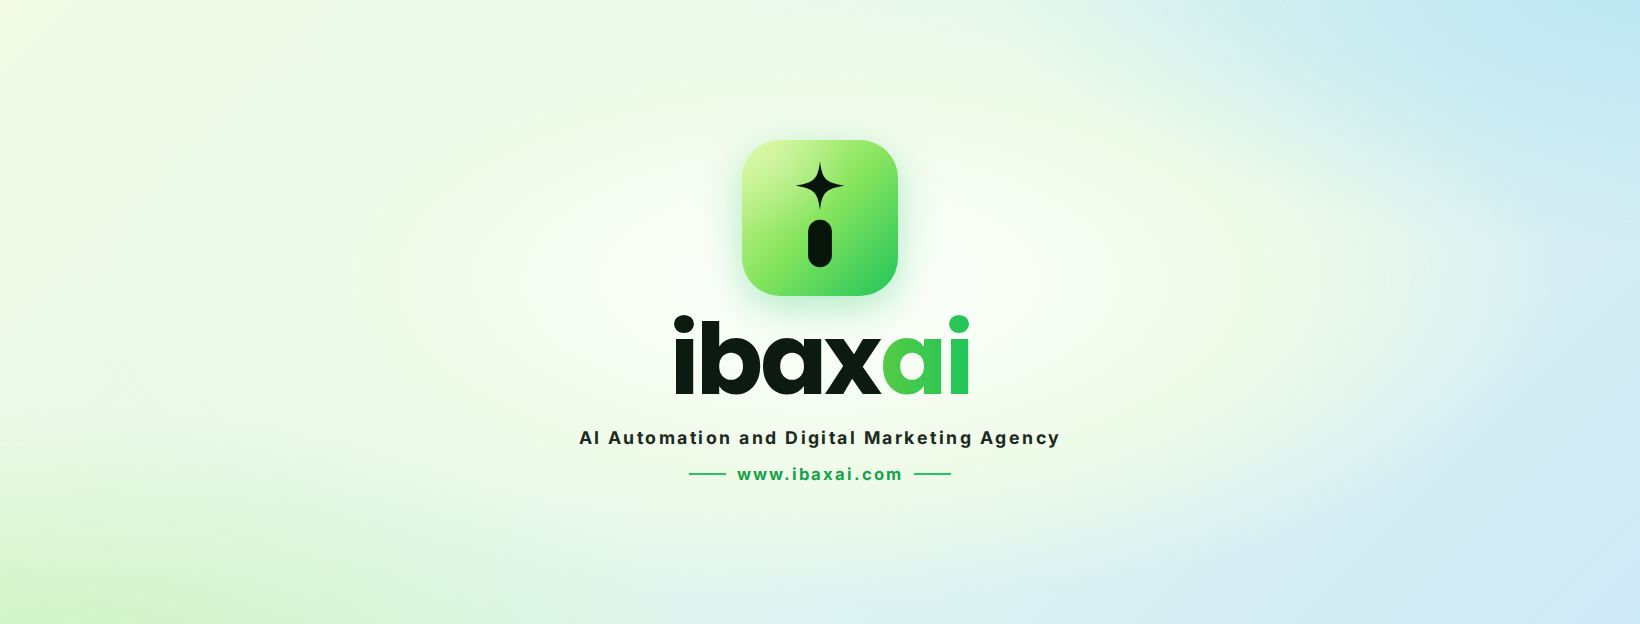
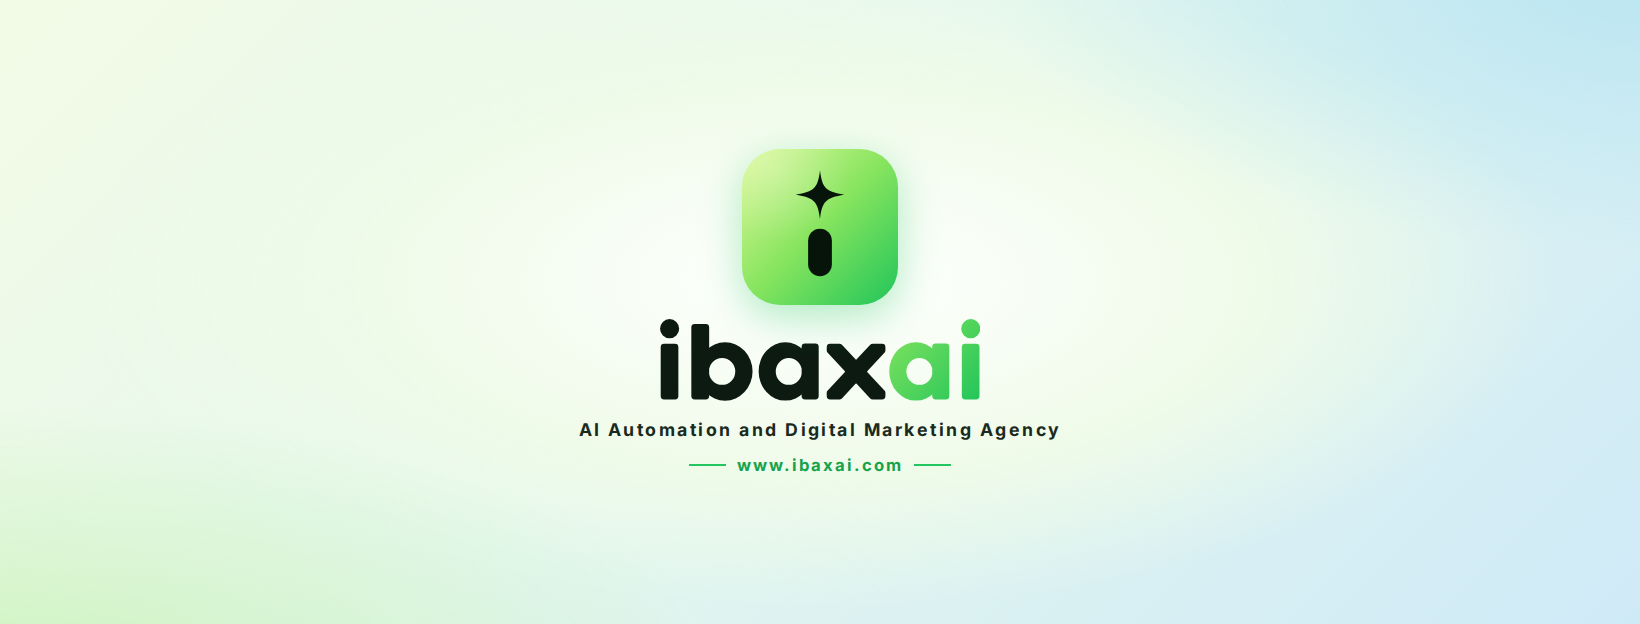
ibaxai wordmark drawn exactly like the brand artwork, centred under the symbol (#199)
* New ibaxai icon and wordmark, tagline "AI Automation and Digital Marketing Agency"

- Icon: softer lime-to-green tile, a slightly larger sparkle and a
  shorter, wider "i" stem (owner's new design). Applied to LogoMark,
  the splash animation, the IBAX knob, and every PNG: favicon, app
  icons 192/512, maskable 512, Apple touch icons.
- Wordmark: one bold font, "ibax" white/dark and "ai" green (the
  separate thin X is gone), with the small TM.
- Tagline everywhere: "AI Automation and Digital Marketing Agency"
  (site and app titles, logo line, splash, Play listing text).
- docs/brand: 1024 icon and Meta covers (1600x900, 1640x624).

Claude-Session: https://claude.ai/code/session_01UsfVGsBkqYKhJkQN8Hsd9S

* Draw the ibaxai wordmark exactly like the brand artwork, centred under the symbol

The letters were Poppins text; they now come from the owner's artwork:
round dots, flat stems with soft corners, round bowls and a straight-cut x,
with the same letter gaps. One SVG path per letter so the splash still
brings them in one by one.

New LogoLockup puts the symbol centred above the word in the artwork's
proportions (tile 48.7% of the word's width, 4.5% gap). Used on the app
welcome page, the splash, the website intro, the demo films and the stacked
BrandLogo. The ™ sits beside the word so the letters stay centred.
Meta and Facebook covers regenerated with the same letters.

Claude-Session: https://claude.ai/code/session_01UsfVGsBkqYKhJkQN8Hsd9S

---------

diff --git a/src/components/navigation/Logo.tsx b/src/components/navigation/Logo.tsx
@@ -1,7 +1,8 @@
 import Link from "next/link";
-import { useId } from "react";
+import { useId, type CSSProperties } from "react";
 import { cn } from "@/lib/cn";
 import { siteConfig } from "@/config/site";
+import { WORDMARK_GLYPHS, WORDMARK_VIEWBOX } from "./wordmarkGlyphs";
 
 /** The IBAX symbol: a sparkle over a short, wide "i", in deep ink on a soft lime-to-green tile. */
 export function LogoMark({ className }: { className?: string }) {
@@ -31,19 +32,43 @@ export function LogoMark({ className }: { className?: string }) {
   );
 }
 
-/** The "ibaxai" wordmark in one bold font: white "ibax", green "ai", and a small ™. */
-export function Wordmark({ className }: { className?: string }) {
+type LetterProps = { className?: string; style?: CSSProperties };
+
+/** The "ibaxai" wordmark, drawn exactly like the brand artwork: "ibax" in ink (white on dark), "ai" in green, and a small ™. */
+export function Wordmark({ className, tm = true, letterProps }: { className?: string; tm?: boolean; letterProps?: (index: number) => LetterProps }) {
+  const id = `ibaxw-${useId().replace(/:/g, "")}`;
   return (
-    <span
-      className={cn("inline-block font-[family-name:var(--font-poppins)] font-bold tracking-[-0.03em] whitespace-nowrap leading-none", className)}
-      aria-label={siteConfig.name}
-    >
-      <span aria-hidden className="text-white">ibax</span>
-      <span aria-hidden className="bg-gradient-to-r from-[#8be860] to-[#55cb45] bg-clip-text text-transparent">ai</span>
-      {/* ™: an unregistered trade mark (® only once it is registered). */}
-      <sup aria-hidden className="ml-[0.08em] align-super text-[0.3em] font-semibold tracking-normal text-white opacity-60">
-        TM
-      </sup>
+    <span className={cn("relative inline-block leading-none", className)} role="img" aria-label={siteConfig.name}>
+      <svg viewBox={WORDMARK_VIEWBOX} className="block h-[0.8em] w-auto overflow-visible text-white" aria-hidden>
+        <defs>
+          <linearGradient id={`${id}-ai`} x1="334" y1="0" x2="468" y2="120" gradientUnits="userSpaceOnUse">
+            <stop offset="0" stopColor="#86e45e" />
+            <stop offset="1" stopColor="#22c55a" />
+          </linearGradient>
+        </defs>
+        {WORDMARK_GLYPHS.map((g, i) => (
+          <path key={i} d={g.d} fill={g.ai ? `url(#${id}-ai)` : "currentColor"} {...letterProps?.(i)} />
+        ))}
+      </svg>
+      {/* ™: an unregistered trade mark (® only once it is registered). Placed beside the letters so they stay centred. */}
+      {tm && (
+        <sup aria-hidden className="absolute top-[-0.05em] left-full ml-[0.08em] text-[0.22em] leading-none font-semibold tracking-normal text-white opacity-60">
+          TM
+        </sup>
+      )}
+    </span>
+  );
+}
+
+/**
+ * Symbol centred above the wordmark, in the brand artwork's proportions: the tile is 48.7% of
+ * the word's width, with a gap of 4.5%. Size it with a width class (e.g. "w-60").
+ */
+export function LogoLockup({ className, markClassName }: { className?: string; markClassName?: string }) {
+  return (
+    <span className={cn("flex flex-col items-center", className)}>
+      <LogoMark className={cn("aspect-square size-auto w-[48.7%]", markClassName)} />
+      <Wordmark className="mt-[4.5%] w-full [&>svg]:h-auto [&>svg]:w-full" />
     </span>
   );
 }

diff --git a/src/components/navigation/wordmarkGlyphs.ts b/src/components/navigation/wordmarkGlyphs.ts
@@ -1,0 +1,16 @@
+/**
+ * The "ibaxai" letters, drawn to match the brand artwork exactly (shapes, sizes and the gaps
+ * between letters): round dots, flat stems with soft corners, round bowls and a straight-cut x.
+ * One path per letter so the app's opening animation can bring them in one by one.
+ * "ibax" is the ink colour, "ai" the green. Units: a 468 × 120 box.
+ */
+export const WORDMARK_VIEWBOX = "0 0 468 120";
+
+export const WORDMARK_GLYPHS: readonly { letter: string; ai: boolean; d: string }[] = [
+  { letter: "i", ai: false, d: "M0.05 14.1a13.95 13.95 0 1 1 27.9 0a13.95 13.95 0 1 1 -27.9 0ZM1 41.1Q1 36.1 6 36.1L21.8 36.1Q26.8 36.1 26.8 41.1L26.8 112.5Q26.8 117.5 21.8 117.5L6 117.5Q1 117.5 1 112.5Z" },
+  { letter: "b", ai: false, d: "M55 76.6a40.1 42.72 0 1 1 80.2 0a40.1 42.72 0 1 1 -80.2 0ZM71.45 76.6a19.25 19.6 0 1 0 38.5 0a19.25 19.6 0 1 0 -38.5 0ZM45.75 12.35Q45.75 7.35 50.75 7.35L66.8 7.35Q71.8 7.35 71.8 12.35L71.8 112.6Q71.8 117.6 66.8 117.6L50.75 117.6Q45.75 117.6 45.75 112.6Z" },
+  { letter: "a", ai: false, d: "M144.1 76.6a39 42.65 0 1 1 78 0a39 42.65 0 1 1 -78 0ZM169.1 76.65a19.1 19.6 0 1 0 38.2 0a19.1 19.6 0 1 0 -38.2 0ZM206.9 40.85Q206.9 35.85 211.9 35.85L226.85 35.85Q231.85 35.85 231.85 40.85L231.85 112.6Q231.85 117.6 226.85 117.6L211.9 117.6Q206.9 117.6 206.9 112.6Z" },
+  { letter: "x", ai: false, d: "M243.6 41.1Q243.6 36.1 248.6 36.1L261.78 36.1Q264.38 36.1 266.15 38L285.66 58.98Q286.48 59.86 287.29 58.98L306.8 38Q308.57 36.1 311.17 36.1L324.35 36.1Q329.35 36.1 329.35 41.1L329.35 46.14Q329.35 47.74 328.26 48.91L303.09 75.97Q302.28 76.85 303.09 77.73L328.26 104.79Q329.35 105.96 329.35 107.56L329.35 112.6Q329.35 117.6 324.35 117.6L311.17 117.6Q308.57 117.6 306.8 115.7L287.29 94.72Q286.48 93.84 285.66 94.72L266.15 115.7Q264.38 117.6 261.78 117.6L248.6 117.6Q243.6 117.6 243.6 112.6L243.6 107.56Q243.6 105.96 244.69 104.79L269.86 77.73Q270.68 76.85 269.86 75.97L244.69 48.91Q243.6 47.74 243.6 46.14Z" },
+  { letter: "a", ai: true, d: "M334.95 76.6a39 42.65 0 1 1 78 0a39 42.65 0 1 1 -78 0ZM359.95 76.65a19.1 19.6 0 1 0 38.2 0a19.1 19.6 0 1 0 -38.2 0ZM397.75 40.85Q397.75 35.85 402.75 35.85L417.7 35.85Q422.7 35.85 422.7 40.85L422.7 112.6Q422.7 117.6 417.7 117.6L402.75 117.6Q397.75 117.6 397.75 112.6Z" },
+  { letter: "i", ai: true, d: "M440.05 14.1a13.95 13.95 0 1 1 27.9 0a13.95 13.95 0 1 1 -27.9 0ZM441 41.1Q441 36.1 446 36.1L461.8 36.1Q466.8 36.1 466.8 41.1L466.8 112.5Q466.8 117.5 461.8 117.5L446 117.5Q441 117.5 441 112.5Z" },
+];

diff --git a/src/app/app/page.tsx b/src/app/app/page.tsx
@@ -7,9 +7,8 @@ import { ArrowRight, CirclePlay, Fingerprint, KeyRound, LogIn, ScanFace, UserPlu
 import { product } from "@/config/product";
 import { logOut, useSession } from "@/lib/app/store";
 import { LOCK_EVENT, bioName, forgetUnlocked, getLock, unlockWithBiometric } from "@/lib/app/appLock";
-import { BrandMark } from "@/components/app/ui";
 import { ThemeToggle } from "@/components/app/ThemeToggle";
-import { Wordmark } from "@/components/navigation/Logo";
+import { LogoLockup } from "@/components/navigation/Logo";
 import { cn } from "@/lib/cn";
 
 /** Soft green light arcs in two corners, like the edge of a glowing planet. */
@@ -87,12 +86,10 @@ export default function WelcomePage() {
 
       <main className="relative mx-auto flex w-full max-w-md flex-1 flex-col px-7 pt-[max(env(safe-area-inset-top),2rem)] pb-[max(env(safe-area-inset-bottom),1.75rem)]">
         <section className="flex flex-1 flex-col items-center justify-center text-center">
-          <span className="relative">
-            <span aria-hidden className="absolute inset-[-30%] rounded-full bg-flow/25 blur-3xl" />
-            <BrandMark className="relative size-28 drop-shadow-[0_0_28px_rgb(37_211_102/0.55)] sm:size-32" />
-          </span>
-          <h1 className="mt-7">
-            <Wordmark className="text-[3.3rem] leading-none sm:text-[3.8rem]" />
+          {/* Symbol centred over "ibaxai", as in the brand artwork. */}
+          <h1 className="relative w-[14.5rem] sm:w-[16.5rem]">
+            <span aria-hidden className="absolute top-[-12%] left-1/2 aspect-square w-[75%] -translate-x-1/2 rounded-full bg-flow/25 blur-3xl" />
+            <LogoLockup className="relative w-full" markClassName="drop-shadow-[0_0_28px_rgb(37_211_102/0.55)]" />
           </h1>
           <p className="mt-4 text-[0.6rem] font-medium tracking-[0.2em] whitespace-nowrap text-fg-muted uppercase min-[400px]:tracking-[0.26em] sm:text-[0.7rem]">{product.logoTagline}</p>
           <span aria-hidden className="mt-7 h-px w-36 bg-[linear-gradient(90deg,transparent,#25d366,transparent)] shadow-[0_0_12px_#25d366]" />

diff --git a/src/components/app/AppSplash.tsx b/src/components/app/AppSplash.tsx
@@ -1,6 +1,7 @@
 "use client";
 
 import { product } from "@/config/product";
+import { Wordmark } from "@/components/navigation/Logo";
 
 /**
  * Opening screen of the app, IBAX's signature moment — "the spark of automation":
@@ -10,7 +11,6 @@ import { product } from "@/config/product";
  * "ibaxai" letter by letter, and the tagline. Pure CSS (and a tiny script for the sound),
  * so it plays before the app's JavaScript loads; shown once per visit. The mark is drawn exactly like LogoMark.
  */
-const letters = ["i", "b", "a", "x", "a", "i"];
 
 /**
  * The opening sound, in time with the animation. Only when the phone lets a page play sound
@@ -96,20 +96,12 @@ export function AppSplash() {
             </svg>
           </span>
         </div>
-        <div className="ibax-splash-word font-[family-name:var(--font-poppins)]" aria-label={product.name}>
-          {letters.map((l, i) =>
-            l === "x" ? (
-              <svg key={i} viewBox="0 0 100 100" className="ibax-splash-letter mx-[0.03em] h-[0.6em] w-[0.6em]" style={{ animationDelay: `${2.15 + i * 0.07}s` }}>
-                <line x1="12" y1="12" x2="88" y2="88" stroke="#fff" strokeWidth="19" strokeLinecap="round" />
-                <line x1="12" y1="88" x2="88" y2="12" stroke="#fff" strokeWidth="19" strokeLinecap="round" />
-              </svg>
-            ) : (
-              <span key={i} className={`ibax-splash-letter ${i > 3 ? "ibax-splash-ai" : ""}`} style={{ animationDelay: `${2.15 + i * 0.07}s` }}>
-                {l}
-              </span>
-            ),
-          )}
-        </div>
+        {/* "ibaxai" letter by letter, centred under the mark as in the brand artwork. */}
+        <Wordmark
+          className="ibax-splash-word [&>svg]:h-auto [&>svg]:w-full"
+          tm={false}
+          letterProps={(i) => ({ className: "ibax-splash-letter", style: { animationDelay: `${2.15 + i * 0.07}s` } })}
+        />
         <p className="ibax-splash-tag">{product.logoTagline}</p>
       </div>
     </>

diff --git a/src/components/app/ui.tsx b/src/components/app/ui.tsx
@@ -30,7 +30,7 @@ import {
   EyeOff,
 } from "lucide-react";
 import { cn } from "@/lib/cn";
-import { LogoMark, Wordmark } from "@/components/navigation/Logo";
+import { LogoLockup, LogoMark, Wordmark } from "@/components/navigation/Logo";
 import { product } from "@/config/product";
 
 /* ── Brand: the ibaxai symbol and wordmark, the same as the website ── */
@@ -53,12 +53,16 @@ export function BrandLogo({
   const mark = { sm: "size-7", md: "size-8", lg: "size-20" }[size];
   const word = { sm: "text-[1.1rem]", md: "text-[1.25rem]", lg: "text-[2.6rem]" }[size];
   return (
-    <span className={cn(stacked ? "flex w-fit flex-col items-center gap-4 text-center" : "inline-flex items-center gap-2.5", className)}>
-      <BrandMark className={mark} />
+    <span className={cn(stacked ? "flex w-fit flex-col items-center text-center" : "inline-flex items-center gap-2.5", className)}>
+      {stacked ? (
+        <LogoLockup className={{ sm: "w-28", md: "w-36", lg: "w-56" }[size]} markClassName="drop-shadow-[0_0_16px_rgb(33_192_99/0.5)]" />
+      ) : (
+        <BrandMark className={mark} />
+      )}
       <span className={cn("flex flex-col", stacked ? "items-center" : "items-start")}>
-        <Wordmark className={word} />
+        {!stacked && <Wordmark className={word} />}
         {tagline && (
-          <span className={cn("mt-1.5 font-mono whitespace-nowrap uppercase text-fg-subtle", !stacked && "max-sm:hidden", size === "lg" ? "text-[0.62rem] tracking-[0.22em]" : "text-[0.5rem] tracking-[0.22em]")}>
+          <span className={cn(stacked ? "mt-3" : "mt-1.5", "font-mono whitespace-nowrap uppercase text-fg-subtle", !stacked && "max-sm:hidden", size === "lg" ? "text-[0.62rem] tracking-[0.22em]" : "text-[0.5rem] tracking-[0.22em]")}>
             {product.logoTagline}
           </span>
         )}

diff --git a/src/app/globals.css b/src/app/globals.css
@@ -272,14 +272,6 @@ body {
   filter: drop-shadow(0 0 24px rgb(37 211 102 / 0.55));
   animation: intro-mark 0.9s var(--ease-out-expo) both;
 }
-.intro-name {
-  position: relative;
-  font-weight: 600;
-  letter-spacing: 0.32em;
-  font-size: 0.8rem; /* the brand is written in lowercase: ibaxai */
-  color: var(--color-fg-muted);
-  animation: intro-fade 0.8s ease-out 0.2s both;
-}
 .intro-line {
   position: relative;
   width: 9rem;
@@ -719,24 +711,18 @@ body {
 }
 .ibax-splash-word {
   position: relative;
-  display: inline-flex;
-  align-items: baseline;
-  margin-top: 2.3rem;
+  /* The mark is 48.7% of the word's width, with a 4.5% gap, as in the brand artwork. */
+  width: calc(7.5rem / 0.487);
+  margin-top: calc(7.5rem / 0.487 * 0.045);
   font-size: 3.4rem;
-  font-weight: 700;
-  letter-spacing: -0.03em;
-  line-height: 1;
-  color: #fff;
+}
+.ibax-splash-word path {
+  transform-box: fill-box;
+  transform-origin: 50% 50%;
 }
 .ibax-splash-letter {
   display: inline-block;
   animation: ibax-splash-letter 0.6s var(--ease-out-expo) both;
-}
-.ibax-splash-ai {
-  background: linear-gradient(90deg, #8be860, #55cb45);
-  -webkit-background-clip: text;
-  background-clip: text;
-  color: transparent;
 }
 .ibax-splash-tag {
   position: relative;
@@ -749,7 +735,6 @@ body {
   white-space: nowrap;
   animation: ibax-splash-tag 1s var(--ease-out-expo) 2.6s both;
 }
-@media (min-width: 640px) { .ibax-splash-word { font-size: 4.2rem; } }
 @keyframes ibax-splash-fly {
   from { offset-distance: 0%; opacity: 0; scale: 0.5; }
   15% { opacity: 1; }

diff --git a/src/components/demo/TourFilm.tsx b/src/components/demo/TourFilm.tsx
@@ -1,7 +1,7 @@
 import type { ReactNode } from "react";
 import { Bot, Check, Gift, Globe, Lock, Mail, MessageCircle, Mic, PhoneCall, SendHorizontal, ShieldCheck, Star, TrendingUp, Users } from "lucide-react";
 import { BrandMark, Icon } from "@/components/app/ui";
-import { Wordmark } from "@/components/navigation/Logo";
+import { LogoLockup, Wordmark } from "@/components/navigation/Logo";
 import { services } from "@/content/app/services";
 import { tourParts } from "@/content/tourScript";
 import { Bubble, Btn, enter, finger, Phone, PT, typed } from "./Film";
@@ -43,11 +43,8 @@ export function TourFilm({ durations, t }: { durations: number[]; t: number }) {
     stage = (
       <div className="absolute inset-0 grid place-items-center text-center">
         <div>
-          <div style={enter(lt, 0, 0.7)} className="mx-auto w-fit drop-shadow-[0_0_40px_rgba(102,211,76,.75)]">
-            <BrandMark className="size-24" />
-          </div>
-          <div style={enter(lt, 0.25)} className="mt-4 flex justify-center">
-            <Wordmark className="text-[30px]" />
+          <div style={enter(lt, 0, 0.7)} className="mx-auto w-[197px]">
+            <LogoLockup className="w-full" markClassName="drop-shadow-[0_0_40px_rgba(102,211,76,.75)]" />
           </div>
           {!outro && (
             <p style={enter(lt, 0.45)} className="mt-3 text-[15px] font-semibold text-white/70">

diff --git a/src/components/demo/Film.tsx b/src/components/demo/Film.tsx
@@ -3,7 +3,7 @@ import { Activity, Bell, Check, Ellipsis, Gift, House, LayoutGrid, Mic, SendHori
 import { inTrial, providerInfo, serviceById, TRIAL_DAYS, type ServiceDef } from "@/content/app/services";
 import { demoParts, type DemoMode } from "@/content/demoScripts";
 import { BrandMark, Icon } from "@/components/app/ui";
-import { Wordmark } from "@/components/navigation/Logo";
+import { LogoLockup, Wordmark } from "@/components/navigation/Logo";
 
 /**
  * One frame of a service's demo video, drawn from the time `t` (seconds), so the video can be
@@ -136,11 +136,8 @@ export function Film({ svc, mode, durations, t }: FilmProps) {
     stage = (
       <div className="absolute inset-0 grid place-items-center text-center">
         <div>
-          <div style={enter(lt, 0, 0.7)} className="mx-auto w-fit drop-shadow-[0_0_40px_rgba(102,211,76,.75)]">
-            <BrandMark className="size-24" />
-          </div>
-          <div style={enter(lt, 0.25)} className="mt-4 flex justify-center">
-            <Wordmark className="text-[30px]" />
+          <div style={enter(lt, 0, 0.7)} className="mx-auto w-[197px]">
+            <LogoLockup className="w-full" markClassName="drop-shadow-[0_0_40px_rgba(102,211,76,.75)]" />
           </div>
           <p style={enter(lt, 0.45)} className="mt-7 text-[34px] leading-[1.05] font-bold tracking-tight text-white">
             Just say it.

diff --git a/src/components/effects/IntroLoader.tsx b/src/components/effects/IntroLoader.tsx
@@ -1,5 +1,4 @@
-import { siteConfig } from "@/config/site";
-import { LogoMark } from "@/components/navigation/Logo";
+import { LogoLockup } from "@/components/navigation/Logo";
 
 /** When the hero entrances should start: part-way into the curtain lift (ms after the intro starts). */
 const HERO_CUE_MS = 1350;
@@ -22,9 +21,8 @@ export function IntroLoader() {
       <div aria-hidden className="intro">
         <div className="intro-glow" />
         <div className="intro-mark">
-          <LogoMark className="size-14" />
+          <LogoLockup className="w-[7.2rem]" />
         </div>
-        <p className="intro-name">{siteConfig.name}</p>
         <div className="intro-line">
           <span />
         </div>
